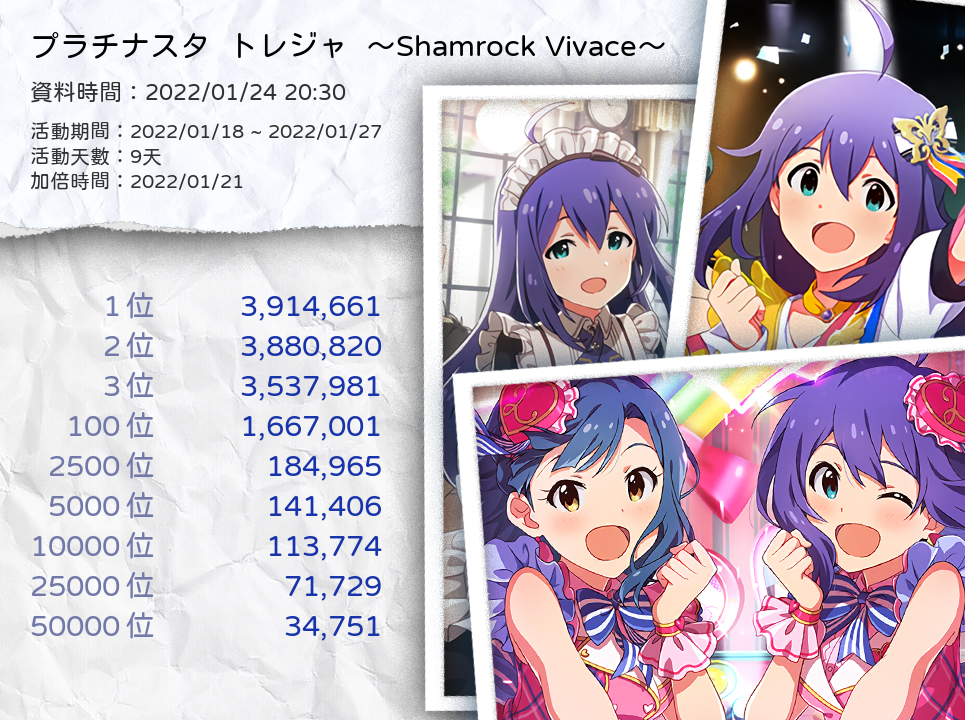
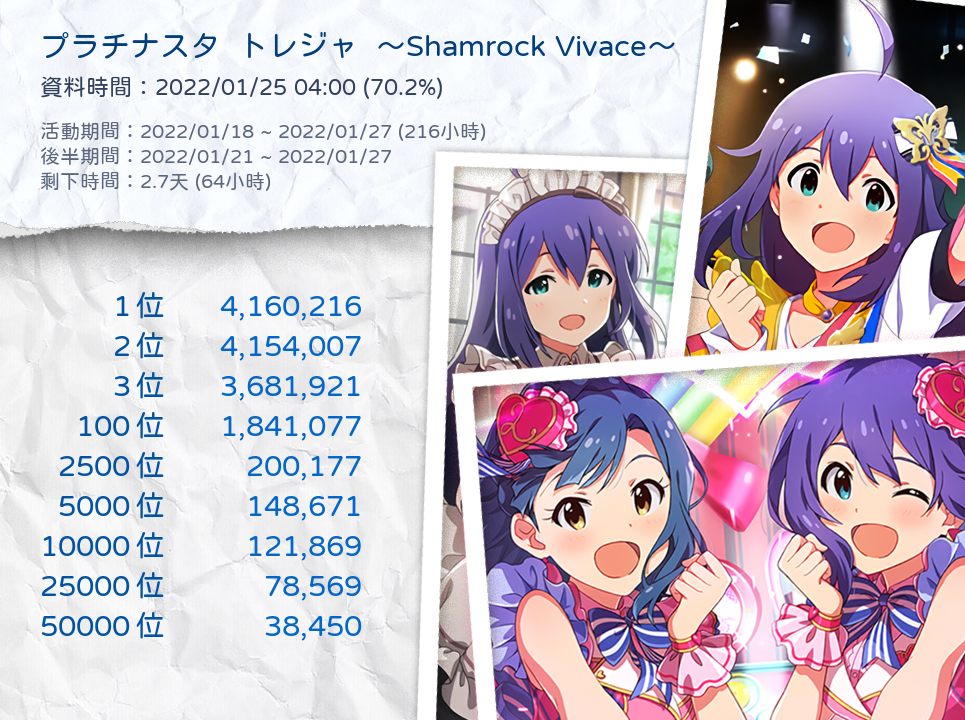
Boarding service update
change background picture
change formatting

diff --git a/cogs/MLTD.py b/cogs/MLTD.py
@@ -96,12 +96,12 @@ class MLTD(commands.Cog):
                                required = False,
                                choices = [
                                    create_choice(
-                                       name = "詳細模式",
-                                       value = "detail"
+                                       name = "圖片模式",
+                                       value = "image"
                                    ),
                                    create_choice(
-                                       name = "簡易模式",
-                                       value = "lite"
+                                       name = "文字模式",
+                                       value = "text"
                                    )
                                ]
                            ),
@@ -122,7 +122,7 @@ class MLTD(commands.Cog):
                                ]
                             )
                        ])
-    async def event(self, ctx, display_mode="detail", score_type="eventPoint"):
+    async def event(self, ctx, display_mode="image", score_type="eventPoint"):
         # 協程擷取json
         eventData = await getEvent()
         tasks = [
@@ -152,7 +152,14 @@ class MLTD(commands.Cog):
         formatedED = datetime.date(int(endDate[0:4]), int(endDate[5:7]), int(endDate[8:10]))
         dayLength = (formatedED - formatedBD).days
 
-        # 新增台灣時間，方便觀察
+        # 台灣時間以及當前時間，方便觀察
+        current_time = datetime.datetime.now()
+        end_time = datetime.datetime(int(endDate[0:4]), int(endDate[5:7]), int(endDate[8:10]), 19, 59, 59, 0)
+        different_time = end_time - current_time
+        different_hours = different_time.total_seconds() / 3600
+        different_days = different_hours / 24
+        total_hours = dayLength*24
+        progress = (total_hours-different_hours) / total_hours
         taipei_time = int(timeSummaries[11:13]) - 1
         taipei_time = f"{int(taipei_time)}{timeSummaries[13:16]}"
 
@@ -176,20 +183,20 @@ class MLTD(commands.Cog):
         # Pillow 設定
         y_globe = 290
         y_accumulate = 40
-        globadjx = 30
+        x_globe = 40
         argptr = 1
         adjx = 150
-        ptx = 60
+        ptx = 30
 
         # 圖片資訊產生
-        draw.text((30,30),f"{eventName}", (0,0,0), font=title)
-        draw.text((30,80),f"資料時間：{time_date}", (48,48,48), font=fetchtime)
-        draw.text((30,120),f"活動期間：{beginDate} ~ {endDate}", (48,48,48), font=body)
-        draw.text((30,145),f"活動天數：{dayLength}天", (48,48,48), font=body)
-        draw.text((30,170),f"加倍時間：{boostDate}", (48,48,48), font=body)
+        draw.text((x_globe,30), f"{eventName}", (2, 62, 125), font=title)
+        draw.text((x_globe,75), f"資料時間：{time_date} ({progress:.1%})\n", (51, 65, 92), font=fetchtime)
+        draw.text((x_globe,120), f"活動期間：{beginDate} ~ {endDate} ({dayLength*24}小時)\n", (92, 103, 125), font=body)
+        draw.text((x_globe,145), f"後半期間：{boostDate} ~ {endDate}\n", (92, 103, 125), font=body)
+        draw.text((x_globe,170), f"剩下時間：{different_days:.2}天 ({int(different_hours)}小時)\n", (92, 103, 125), font=body)
 
         # 圖片排名產生
-        for data in boardingDataset[score_type]["scores"]:
+        for data in boardingDataset['eventPoint']["scores"]:
             rank = data["rank"]
             score = data["score"]
             if score is not None:
@@ -201,26 +208,24 @@ class MLTD(commands.Cog):
                     argx = 18
                 else:
                     argx = 0
-                draw.text((argx + globadjx, y_globe),f"{rank}", (114,120,168), font=boarding)
-                draw.text((95 + globadjx, y_globe),"位", (114,120,168), font=boarding)
+                draw.text((argx + x_globe, y_globe),f"{rank}", (3, 83, 164), font=boarding)
+                draw.text((95 + x_globe, y_globe),"位", (3, 83, 164), font=boarding)
                 if (len(str(score)) == 8):
                     adjx = 176.8
                 elif (len(str(score)) == 7):
                     adjx = 194
-                draw.text((adjx + globadjx + ptx, y_globe),f"{score:,.0f}", (25,52,170), font=boarding)
+                draw.text((adjx + x_globe + ptx, y_globe),f"{score:,.0f}", (4, 102, 200), font=boarding)
                 y_globe += y_accumulate
                 argptr += 1
 
         AnnaFrame.save(f"{mepath}/boarding.png")
 
-        # 顯示模式
-        if display_mode == "detail":
-            result += f"活動名稱：{eventName}\n"
-            result += f"活動期間：{beginDate} ~ {endDate}\n"
-            # result += f"活動天數：f"{dayLength}，已經過了：{percentage}"
-            result += f"活動天數：{dayLength}天\n"
-            result += f"加倍時間：{boostDate}\n"
-        result += f"資料時間：{time_date}\n"
+        # 文字模式
+        result += f"{eventName}\n"
+        result += f"活動期間：{beginDate} ~ {endDate} ({dayLength*24}小時)\n"
+        result += f"後半期間：{boostDate} ~ {endDate}\n"
+        result += f"更新時間：{time_date} ({progress:.1%})\n"
+        result += f"剩下時間：{different_days:.2}天 ({different_hours:.3}小時)\n"
 
         # 榜線資料
         result += f"\n"
@@ -231,10 +236,12 @@ class MLTD(commands.Cog):
                 result += f"排名：{rank:<10,d}分數：{score:>10,.0f}\n"
         result = f"{result}```"
 
-        image = discord.File(f"{mepath}/boarding.png")
-        await ctx.send(file=image, hidden=False)
+        if display_mode == "text":
+            await ctx.send(content=result, hidden=False)
+        else:
+            image = discord.File(f"{mepath}/boarding.png")
+            await ctx.send(file=image, hidden=False)
         # image = discord.File(f'{mepath}/{eventData["id"]:0>4,d}.png')
-        # await ctx.send(content=result, file=image, hidden=False)
 
 
 
